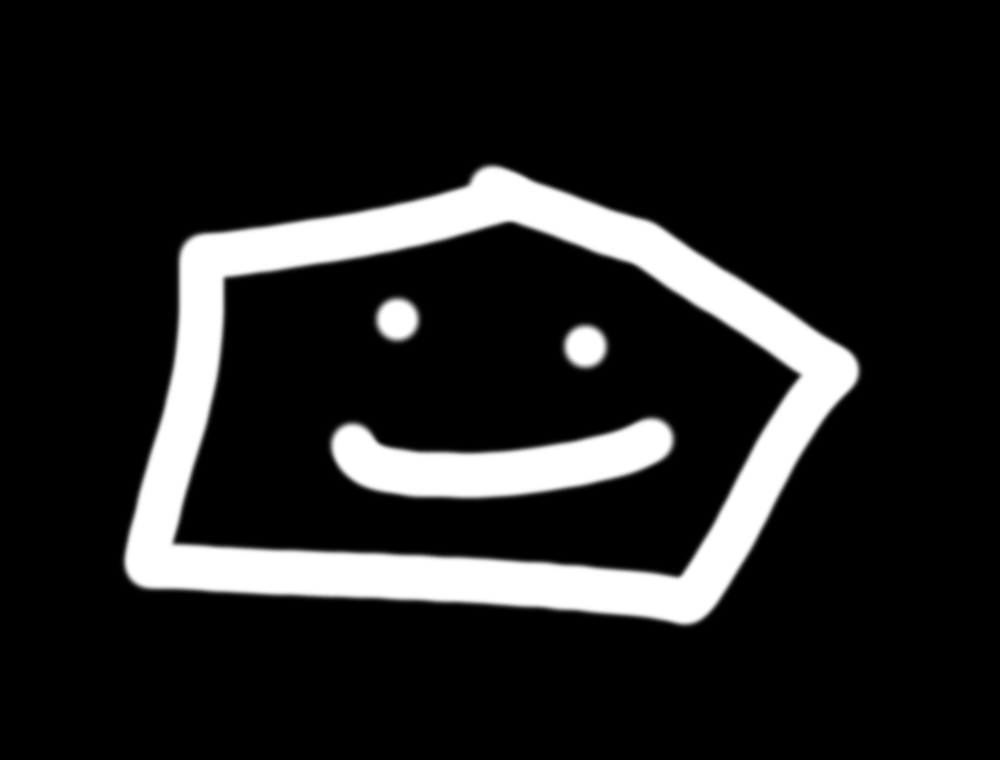
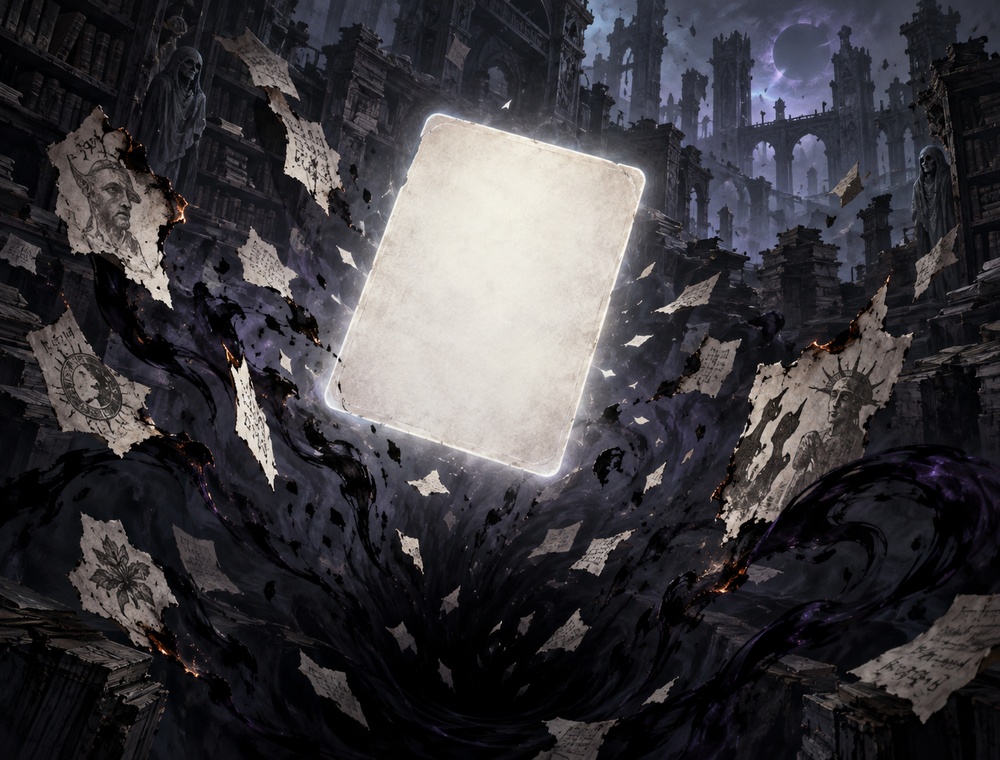
Release PerfectCurse v0.1.0-alpha.9
Add the new Curse “Theft”

While Theft is in your hand, lose 1 Gold whenever you play another card

Add the first-stage mechanic for the Curse “Parasite”

If Parasite remains in your hand at the end of the turn, add one base-game Infection to the discard pile

Add Theft and Parasite to Unexpected Defect’s synchronized random Curse pool

Increase the number of random Curse candidates from 10 to 12

Add official artwork for Theft, Parasite, Burning Alive, Betrayal, Blank, and Indoctrination

Update Betrayal artwork to depict the Ironclad betraying the Defect from behind

Provide both 250×190 standard artwork and 1000×760 large artwork

Update README, development progress, and Alpha9 status documentation

Update the mod version to v0.1.0-alpha.9

Build verification passed with 0 warnings and 0 errors

Design: 龙娘无限好
Mod implementation: tsymq（唐宋元明清）

diff --git a/tools/prepare_alpha9_art.py b/tools/prepare_alpha9_art.py
@@ -1,0 +1,42 @@
+from pathlib import Path
+
+from PIL import Image
+
+
+ROOT = Path(__file__).resolve().parents[1]
+GENERATED = Path.home() / ".codex" / "generated_images" / "019ffb1f-da99-7720-9e00-eb356cdf8e81"
+ASSETS = {
+    "theft": "exec-2f3a9c1c-5bdb-42ef-accc-e852a99762ce.png",
+    "parasite": "exec-527f73b5-9a9a-4ecf-8d48-33d3c6d6df57.png",
+    "burningalive": "exec-4f96f9c0-8809-4c85-9d90-a8c019cb9a79.png",
+    "betrayal": "exec-65188dab-7275-4c77-8edd-44406c9587a4.png",
+    "blank": "exec-f0d3566d-29ea-4f03-b1cd-a4ee8910e23a.png",
+    "indoctrination": "exec-e25be354-effd-4a67-bb49-da57c332ddbf.png",
+}
+
+source_dir = ROOT / "art_source" / "curses"
+small_dir = ROOT / "PerfectCurse" / "images" / "card_portraits"
+big_dir = small_dir / "big"
+source_dir.mkdir(parents=True, exist_ok=True)
+small_dir.mkdir(parents=True, exist_ok=True)
+big_dir.mkdir(parents=True, exist_ok=True)
+
+for name, filename in ASSETS.items():
+    source = Image.open(GENERATED / filename).convert("RGB")
+    source.save(source_dir / f"{name}.png")
+
+    target_ratio = 1000 / 760
+    source_ratio = source.width / source.height
+    if source_ratio > target_ratio:
+        crop_width = round(source.height * target_ratio)
+        left = (source.width - crop_width) // 2
+        crop = (left, 0, left + crop_width, source.height)
+    else:
+        crop_height = round(source.width / target_ratio)
+        top = (source.height - crop_height) // 2
+        crop = (0, top, source.width, top + crop_height)
+
+    portrait = source.crop(crop)
+    portrait.resize((1000, 760), Image.Resampling.LANCZOS).save(big_dir / f"{name}.png")
+    portrait.resize((250, 190), Image.Resampling.LANCZOS).save(small_dir / f"{name}.png")
+    print(name, source.size, crop)

diff --git a/docs/UPDATE_PROGRESS.md b/docs/UPDATE_PROGRESS.md
@@ -75,3 +75,13 @@ Mod 实现：tsymq（唐宋元明清）
 5. 加入诅咒“失重”：回合结束仍在手中时安排下回合效果；下个自身回合开始时将当前力量和敏捷由正数变负数、负数变正数，零值保持不变。
 
 五次更新已完成，正式升级为 `v0.1.0-alpha.8`。下一轮重新从 0 / 5 计数。
+
+## Alpha 9 已发布：5 / 5
+
+1. 加入诅咒“偷窃”：位于手牌中时，每当其拥有者打出一张其他牌便失去1金币；同时加入“意外缺陷”的同步随机诅咒池，使候选数量增加至11种。
+2. 加入诅咒“寄生”的第一阶段机制：回合结束仍在手中时，将一张原版“感染”加入弃牌堆；同时加入“意外缺陷”随机诅咒池，候选数量增加至12种。生成敌人的第二阶段机制将在验证战斗生成接口后补全。
+3. 为“偷窃”与“寄生”制作并接入正式卡面插画，同时生成 250×190 普通图和 1000×760 大图，替换两张卡原有的通用占位图。
+4. 为“烈火焚身”和“背叛”制作并接入正式卡面；“背叛”画面按设定表现为铁甲战士从背后背叛故障机器人，并同时生成 250×190 普通图和 1000×760 大图。
+5. 为“空白”和“教化”制作并接入正式卡面，分别以被抹除内容的空白卡牌和受诅咒偶像及仪式锁链控制的人群为主题；同时生成 250×190 普通图和 1000×760 大图。
+
+五次更新已完成，正式升级为 `v0.1.0-alpha.9`。下一轮重新从 0 / 5 计数。

diff --git a/docs/ALPHA9_STATUS.md b/docs/ALPHA9_STATUS.md
@@ -1,0 +1,26 @@
+# PerfectCurse v0.1.0-alpha.9
+
+## 本版内容
+
+- 新增诅咒“偷窃”：在手牌中时，每打出一张其他牌失去1金币。
+- 新增诅咒“寄生”的第一阶段机制：回合结束仍在手中时，将一张原版“感染”加入弃牌堆。
+- “意外缺陷”的随机诅咒候选数量从10种增加至12种。
+- 为“偷窃”“寄生”“烈火焚身”“背叛”“空白”和“教化”接入正式卡面插画。
+- “背叛”卡面按设定表现铁甲战士背叛故障机器人。
+
+## 当前范围
+
+- 20张自定义诅咒。
+- 30件诅咒遗物。
+- 6张角色联动牌。
+- 前置：BaseLib 3.4.0+。
+- 游戏基线：v0.111.0 public-beta。
+
+## 已知未完成内容
+
+- “寄生”生成敌人的第二阶段机制尚未接入，需要先验证当前游戏的战斗生成接口。
+
+## 署名
+
+- 方案设计：龙娘无限好
+- Mod 实现：tsymq（唐宋元明清）

diff --git a/README.md b/README.md
@@ -9,13 +9,13 @@
 
 请在转载、分发或衍生版本中保留方案设计者与 Mod 实现者署名。
 
-## Alpha 8 当前范围
+## Alpha 9 当前范围
 
 - 游戏基线：v0.111.0（public-beta，commit 41cef1ea）
 - 已修复旧测试包中本地化 JSON 格式错误导致的启动失败
 - 前置：BaseLib 3.4.0+
-- 已建立十八张诅咒、三十件诅咒遗物和六张角色联动牌
+- 已建立二十张诅咒、三十件诅咒遗物和六张角色联动牌
 - 新增故障机器人联动牌“意外缺陷”
-- 五张基础诅咒和五张角色卡已接入正式卡面插画，新加入的角色卡暂用占位资源
+- 十一张诅咒和五张角色卡已接入正式卡面插画，其余内容暂用占位资源
 
 这是早期机制验证版，不代表完整设计内容。当前版本内的更新次数记录见 `docs/UPDATE_PROGRESS.md`。
